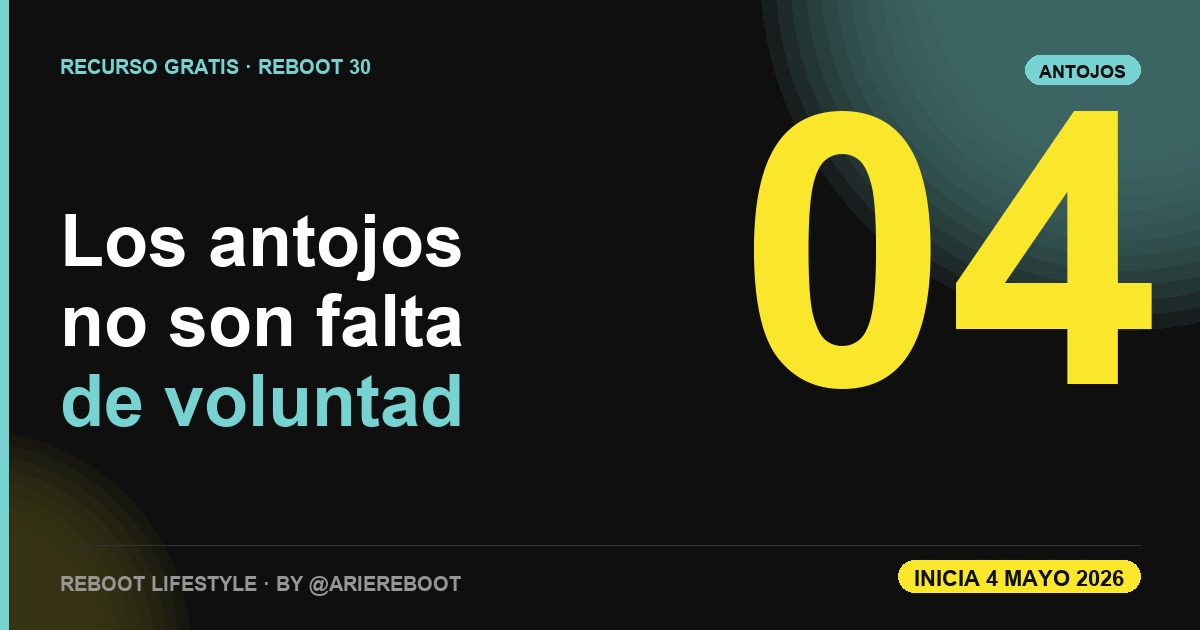
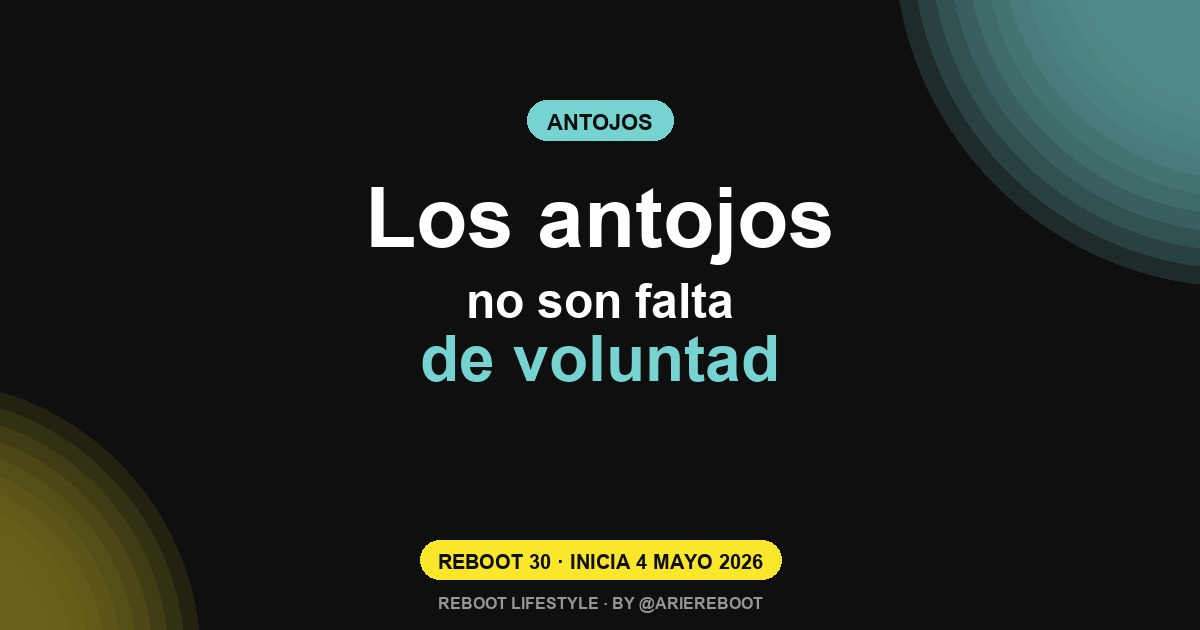
OG images v2 (WhatsApp-safe centered) + Supabase architecture doc
OG IMAGES V2 — fixed WhatsApp crop issue:
Problem: WhatsApp shows square crop of OG image, cutting off text
that was positioned on left/right edges.

Solution: all critical content now CENTERED within 630x630 safe zone.
- Tag pill at top center
- Title 3 lines center-aligned (big + small + turquesa accent)
- Yellow date badge bottom center
- Brand line very bottom
- Decorative blobs only on extreme edges (left bottom yellow, right top turquesa)

Now works in both:
- Facebook/Twitter preview (1200x630 full)
- WhatsApp preview (crops to center square, all text visible)

ARCHITECTURE DOC FIX:
Updated manychat-scripts.md to reflect real backend:
- Landing form → reboot-master-api.vercel.app → Supabase (not FluentCRM)
- Added 3 ManyChat integration options (Supabase webhook recommended)
- Removed FluentCRM references

Changed region(s): [[0.0, 0.0, 1.0, 1.0], [0.74, 0.8746, 0.9558, 0.9651], [0.4317, 0.1508, 0.5858, 0.2413]]

diff --git a/gen-og-images.py b/gen-og-images.py
@@ -1,6 +1,9 @@
 """
-Genera 10 OG images (1200x630) personalizadas por landing.
-Paleta 2 + emoji específico + título corto + branding consistente.
+Genera OG images 1200x630 con contenido en AREA CENTRAL CUADRADA
+para que WhatsApp (que recorta a preview cuadrada) muestre todo bien.
+
+Zona segura: 630x630 centrada (coordenadas x = 285 a 915).
+Todo texto importante va ahí. Los bordes solo tienen decoración.
 """
 from PIL import Image, ImageDraw, ImageFont
 from pathlib import Path
@@ -11,7 +14,6 @@ OUT.mkdir(exist_ok=True)
 
 # Paleta 2
 BLACK = (15, 15, 15)
-DEEP_NEURAL = (2, 37, 31)
 OXYGEN = (118, 211, 209)
 EARTH_CARROT = (232, 92, 38)
 ARIE_YELLOW = (250, 230, 43)
@@ -20,12 +22,16 @@ MUTED = (150, 150, 150)
 
 W, H = 1200, 630
 
+# Zona segura cuadrada (lo que WhatsApp muestra en preview)
+SAFE_LEFT = (W - H) // 2   # 285
+SAFE_RIGHT = W - SAFE_LEFT # 915
+SAFE_CENTER_X = W // 2     # 600
+
 FONTS = [
     '/System/Library/Fonts/Supplemental/Arial Bold.ttf',
     '/System/Library/Fonts/Helvetica.ttc',
-    '/System/Library/Fonts/Avenir.ttc',
 ]
-def get_font(size, weight='bold'):
+def get_font(size):
     for path in FONTS:
         try:
             return ImageFont.truetype(path, size)
@@ -34,127 +40,119 @@ def get_font(size, weight='bold'):
     return ImageFont.load_default()
 
 LANDINGS = [
-    {'slug': 'cafe', 'num': '01', 'tag': 'CAFÉ',
-     'title_line_1': 'Los 3 errores', 'title_line_2': 'del café que te',
-     'title_line_3_accent': 'roban energía',
-     'kicker': 'RECURSO GRATIS · REBOOT 30'},
-    {'slug': 'azucar', 'num': '02', 'tag': 'AZÚCAR',
-     'title_line_1': 'Los 10 nombres', 'title_line_2': 'del azúcar',
-     'title_line_3_accent': 'oculta',
-     'kicker': 'RECURSO GRATIS · REBOOT 30'},
-    {'slug': 'desayuno', 'num': '03', 'tag': 'DESAYUNO',
-     'title_line_1': '3 desayunos', 'title_line_2': 'salados que',
-     'title_line_3_accent': 'resuelven tu mañana',
-     'kicker': 'RECURSO GRATIS · REBOOT 30'},
-    {'slug': 'antojos', 'num': '04', 'tag': 'ANTOJOS',
-     'title_line_1': 'Los antojos', 'title_line_2': 'no son falta',
-     'title_line_3_accent': 'de voluntad',
-     'kicker': 'RECURSO GRATIS · REBOOT 30'},
-    {'slug': 'energia', 'num': '05', 'tag': 'ENERGÍA',
-     'title_line_1': '3 hacks de', 'title_line_2': 'energía sin',
-     'title_line_3_accent': 'depender del café',
-     'kicker': 'RECURSO GRATIS · REBOOT 30'},
-    {'slug': 'etiquetas', 'num': '06', 'tag': 'ETIQUETAS',
-     'title_line_1': '3 reglas para', 'title_line_2': 'leer etiquetas',
-     'title_line_3_accent': 'en 30 segundos',
-     'kicker': 'RECURSO GRATIS · REBOOT 30'},
-    {'slug': 'prep', 'num': '07', 'tag': 'PREP',
-     'title_line_1': 'Meal prep', 'title_line_2': 'dominguero',
-     'title_line_3_accent': 'que cambia tu semana',
-     'kicker': 'RECURSO GRATIS · REBOOT 30'},
-    {'slug': 'snacks', 'num': '08', 'tag': 'SNACKS',
-     'title_line_1': 'Los snacks', 'title_line_2': '"saludables"',
-     'title_line_3_accent': 'son los peores',
-     'kicker': 'RECURSO GRATIS · REBOOT 30'},
-    {'slug': 'agua', 'num': '09', 'tag': 'AGUA',
-     'title_line_1': 'Tomas agua', 'title_line_2': 'mal y',
-     'title_line_3_accent': 'no lo sabes',
-     'kicker': 'RECURSO GRATIS · REBOOT 30'},
-    {'slug': 'programa', 'num': '10', 'tag': 'PROGRAMA',
-     'title_line_1': 'En 30 días', 'title_line_2': 'vas a vivir en',
-     'title_line_3_accent': 'otro cuerpo',
-     'kicker': 'REBOOT 30 · PROGRAMA GRATUITO'}
+    {'slug': 'cafe', 'tag': 'CAFÉ',
+     'title_big': '3 errores',
+     'title_small': 'del café que te roban',
+     'title_accent': 'energía'},
+    {'slug': 'azucar', 'tag': 'AZÚCAR',
+     'title_big': '10 nombres',
+     'title_small': 'del azúcar',
+     'title_accent': 'oculta'},
+    {'slug': 'desayuno', 'tag': 'DESAYUNO',
+     'title_big': '3 desayunos',
+     'title_small': 'salados que resuelven',
+     'title_accent': 'tu mañana'},
+    {'slug': 'antojos', 'tag': 'ANTOJOS',
+     'title_big': 'Los antojos',
+     'title_small': 'no son falta',
+     'title_accent': 'de voluntad'},
+    {'slug': 'energia', 'tag': 'ENERGÍA',
+     'title_big': '3 hacks',
+     'title_small': 'de energía sin',
+     'title_accent': 'depender del café'},
+    {'slug': 'etiquetas', 'tag': 'ETIQUETAS',
+     'title_big': '3 reglas',
+     'title_small': 'para leer etiquetas',
+     'title_accent': 'en 30 segundos'},
+    {'slug': 'prep', 'tag': 'PREP',
+     'title_big': 'Meal prep',
+     'title_small': 'dominguero que',
+     'title_accent': 'cambia tu semana'},
+    {'slug': 'snacks', 'tag': 'SNACKS',
+     'title_big': 'Los snacks',
+     'title_small': '"saludables"',
+     'title_accent': 'son los peores'},
+    {'slug': 'agua', 'tag': 'AGUA',
+     'title_big': 'Tomas agua',
+     'title_small': 'mal y',
+     'title_accent': 'no lo sabes'},
+    {'slug': 'programa', 'tag': 'PROGRAMA',
+     'title_big': 'En 30 días',
+     'title_small': 'vas a vivir en',
+     'title_accent': 'otro cuerpo'}
 ]
+
+def draw_centered(draw, text, y, font, fill):
+    """Dibuja texto centrado horizontalmente."""
+    bbox = draw.textbbox((0, 0), text, font=font)
+    w = bbox[2] - bbox[0]
+    draw.text((SAFE_CENTER_X - w // 2, y), text, fill=fill, font=font)
+    return bbox[3] - bbox[1]
 
 def make_og(data):
     img = Image.new('RGB', (W, H), BLACK)
     draw = ImageDraw.Draw(img, 'RGBA')
 
-    # Glow top-right (turquesa)
-    for i in range(14, 0, -1):
-        alpha = int(i * 1.4)
-        r = 150 + i * 15
-        cx, cy = W - 80, -30
-        draw.ellipse([cx - r, cy - r, cx + r, cy + r],
-                     fill=(118, 211, 209, alpha))
-
-    # Glow bottom-left (yellow subtle)
+    # Decoración lateral izquierda (fuera del safe area)
     for i in range(10, 0, -1):
-        alpha = int(i * 0.9)
-        r = 100 + i * 12
-        cx, cy = -30, H + 20
-        draw.ellipse([cx - r, cy - r, cx + r, cy + r],
+        alpha = int(i * 2.2)
+        r = 120 + i * 16
+        draw.ellipse([-80 - r, H + 30 - r, -80 + r, H + 30 + r],
                      fill=(250, 230, 43, alpha))
 
-    # Left accent bar (turquesa)
-    draw.rectangle([0, 0, 8, H], fill=OXYGEN)
+    # Decoración lateral derecha (fuera del safe area)
+    for i in range(12, 0, -1):
+        alpha = int(i * 3)
+        r = 130 + i * 18
+        draw.ellipse([W + 40 - r, -60 - r, W + 40 + r, -60 + r],
+                     fill=(118, 211, 209, alpha))
 
-    # Kicker (top left)
-    font_kicker = get_font(20)
-    draw.text((60, 55), data['kicker'], fill=OXYGEN, font=font_kicker)
+    # ===== ZONA SEGURA (centro cuadrado) =====
 
-    # Huge serial number on right side (editorial style)
-    font_num = get_font(380)
-    num_text = data['num']
-    bbox = draw.textbbox((0, 0), num_text, font=font_num)
-    nw = bbox[2] - bbox[0]
-    nh = bbox[3] - bbox[1]
-    # Very transparent yellow — decorative
-    draw.text((W - nw - 40, 40), num_text, fill=(250, 230, 43, 70), font=font_num)
-
-    # Tag pill (top right, under number area)
-    font_tag = get_font(18)
-    tag_text = data['tag']
-    bbox = draw.textbbox((0, 0), tag_text, font=font_tag)
+    # 1. Pill de tema (arriba, turquesa)
+    font_tag = get_font(22)
+    tag = data['tag']
+    bbox = draw.textbbox((0, 0), tag, font=font_tag)
     tw = bbox[2] - bbox[0]
     th = bbox[3] - bbox[1]
-    pad_x, pad_y = 14, 6
-    tx = W - 60 - tw - pad_x * 2
-    ty = 55
-    draw.rounded_rectangle([tx, ty, tx + tw + pad_x * 2, ty + th + pad_y * 2 + 4],
-                           radius=16, fill=OXYGEN)
-    draw.text((tx + pad_x, ty + pad_y), tag_text, fill=BLACK, font=font_tag)
+    pad_x, pad_y = 20, 10
+    x1 = SAFE_CENTER_X - (tw + pad_x * 2) // 2
+    y1 = 100
+    draw.rounded_rectangle([x1, y1, x1 + tw + pad_x * 2, y1 + th + pad_y * 2 + 4],
+                           radius=20, fill=OXYGEN)
+    draw.text((x1 + pad_x, y1 + pad_y), tag, fill=BLACK, font=font_tag)
 
-    # Title (3 lines)
-    font_title = get_font(72)
-    y = 200
-    draw.text((60, y), data['title_line_1'], fill=WHITE, font=font_title)
-    y += 80
-    draw.text((60, y), data['title_line_2'], fill=WHITE, font=font_title)
-    y += 80
-    draw.text((60, y), data['title_line_3_accent'], fill=OXYGEN, font=font_title)
+    # 2. Título grande primera palabra (centrado)
+    font_big = get_font(84)
+    y = 170
+    h = draw_centered(draw, data['title_big'], y, font_big, WHITE)
+    y += h + 26
 
-    # Bottom divider
-    draw.line([(60, H - 85), (W - 60, H - 85)], fill=(50, 50, 50), width=1)
+    # 3. Título small segunda línea (centrado)
+    font_small = get_font(48)
+    h = draw_centered(draw, data['title_small'], y, font_small, WHITE)
+    y += h + 14
 
-    # Bottom: brand left + date right
-    font_brand = get_font(20)
-    font_date = get_font(22)
+    # 4. Título accent (turquesa, centrado)
+    font_accent = get_font(64)
+    h = draw_centered(draw, data['title_accent'], y, font_accent, OXYGEN)
 
-    draw.text((60, H - 58), 'REBOOT LIFESTYLE · BY @ARIEREBOOT',
-              fill=MUTED, font=font_brand)
-
-    # Yellow date badge
-    date_text = 'INICIA 4 MAYO 2026'
-    bbox = draw.textbbox((0, 0), date_text, font=font_date)
+    # 5. Badge inferior (amarillo · fecha)
+    font_badge = get_font(20)
+    badge_text = 'REBOOT 30 · INICIA 4 MAYO 2026'
+    bbox = draw.textbbox((0, 0), badge_text, font=font_badge)
     tw = bbox[2] - bbox[0]
     th = bbox[3] - bbox[1]
-    pad_x, pad_y = 16, 8
-    x1 = W - 60 - tw - pad_x * 2
-    y1 = H - 70
-    draw.rounded_rectangle([x1, y1, W - 60, y1 + th + pad_y * 2],
-                           radius=20, fill=ARIE_YELLOW)
-    draw.text((x1 + pad_x, y1 + pad_y - 2), date_text, fill=BLACK, font=font_date)
+    pad_x, pad_y = 18, 10
+    x1 = SAFE_CENTER_X - (tw + pad_x * 2) // 2
+    y1 = H - 90
+    draw.rounded_rectangle([x1, y1, x1 + tw + pad_x * 2, y1 + th + pad_y * 2 + 4],
+                           radius=22, fill=ARIE_YELLOW)
+    draw.text((x1 + pad_x, y1 + pad_y), badge_text, fill=BLACK, font=font_badge)
+
+    # 6. Brand line (muy abajo centrado)
+    font_brand = get_font(16)
+    draw_centered(draw, 'REBOOT LIFESTYLE · BY @ARIEREBOOT', H - 36, font_brand, MUTED)
 
     out_path = OUT / f"og-{data['slug']}.jpg"
     img.save(out_path, 'JPEG', quality=92, optimize=True)
@@ -164,4 +162,4 @@ def make_og(data):
 for d in LANDINGS:
     make_og(d)
 
-print(f"\nDone. {len(LANDINGS)} OG images created in {OUT}/")
+print(f"\nDone. {len(LANDINGS)} OG images (WhatsApp-safe center) created in {OUT}/")

diff --git a/manychat-scripts.md b/manychat-scripts.md
@@ -293,12 +293,41 @@ Con tu respuesta afino los próximos. Es todo lo que necesito.
    - Tag `inscrito_reboot30` cuando completen el formulario
    - Tag `re_engagement` cuando cumplen 72h sin inscribirse
 
-### Integración con FluentCRM (WordPress)
+### Integración con Supabase (via Reboot Master API)
 
-Cuando alguien completa el formulario en reboot30.html, el endpoint `reboot-master-api` ya registra el lead.
-Para sincronizar con ManyChat:
-- Opción A (recomendada): En FluentCRM, cuando se crea un contacto con tag `reboot_30`, disparar webhook a ManyChat API
-- Opción B: Zapier entre el endpoint y ManyChat
+**Arquitectura real (confirmada):**
+```
+Landing → Formulario reboot30.html
+        → POST https://reboot-master-api.vercel.app/api/register
+        → Supabase (base de datos)
+```
+
+Tabla en Supabase (schema maestro) que recibe:
+- `email`, `name`, `last_name`, `phone`, `country`
+- `product_slug: 'reboot_30'`
+- `source`, `source_campaign`, `utm_data` (JSON)
+- `form_data` (JSON: retos, codigo_telefono, telefono_raw)
+- `consent_data_processing`, `consent_text`, `consent_version`
+- `consent_marketing`, `consent_whatsapp`
+
+**Para sincronizar con ManyChat hay 3 caminos:**
+
+#### Opción A (recomendada): Webhook desde Supabase
+1. En Supabase Dashboard → Database → Webhooks
+2. Crear webhook en la tabla `registrations` (o como se llame)
+3. Trigger: `INSERT` donde `product_slug = 'reboot_30'`
+4. URL target: endpoint de ManyChat API `https://api.manychat.com/fb/subscriber/createSubscriber`
+5. Headers: `Authorization: Bearer {MANYCHAT_API_TOKEN}`
+
+Esto dispara automático cada nuevo registro.
+
+#### Opción B: Webhook desde el Master API (Vercel)
+Agregar una línea al endpoint `/api/register` de Vercel para que, después del insert en Supabase, dispare un POST a ManyChat. Requiere modificar el código del Master API en el repo correspondiente.
+
+#### Opción C: Zapier / n8n entre medio
+Zapier escucha Supabase via Postgres trigger → Crea subscriber en ManyChat. Más fácil de configurar pero suma costo mensual.
+
+**Mi voto:** Opción A — es nativa, gratis, directo entre las dos plataformas.
 
 ---
 
